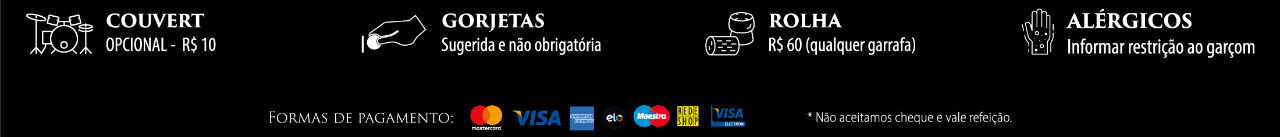
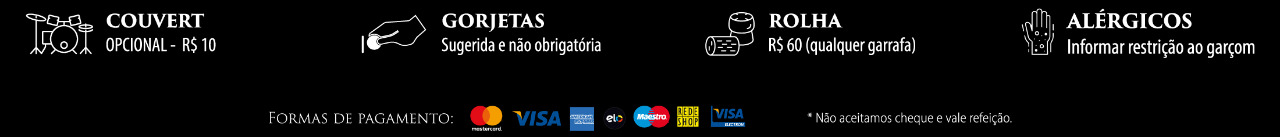
fix: correção na largura das imagens

diff --git a/src/App.jsx b/src/App.jsx
@@ -11,12 +11,13 @@ import Legenda from './components/Legenda'
 import * as actionsBebida from './actions/actionsBebida'
 import * as actionsComida from './actions/actionsComida'
 
-const StyleContainer = styled.div`
+const StyleContainer = styled(StickyContainer)`
   display: flex;
   flex-direction: column;
   background-color: #000;
   height: 100%;
   padding-bottom: 5rem;
+  width: 100%;
 `
 
 function App() {
@@ -42,14 +43,12 @@ function App() {
   }, [dispatch])
 
   return (
-    <StickyContainer>
       <StyleContainer>
         <Banner />
         <Menu />
         <Legenda />
         <Cardapio />
       </StyleContainer>
-    </StickyContainer>
   )
 }
 

diff --git a/src/components/Banner/styles.js b/src/components/Banner/styles.js
@@ -8,6 +8,7 @@ export const Container = styled.div`
   margin-bottom: 2rem;
   justify-content: center;
   align-items: center;
+  width: 100%;
 
   .slick-prev,
   .slick-next {
@@ -19,11 +20,13 @@ export const Container = styled.div`
 export const BannerTop = styled.div`
   display: flex;
   max-width: 1224px;
+  width: 100%;
 `
 
 export const BannerBottom = styled.div`
   display: flex;
   max-width: 1224px;
+  width: 100%;
 `
 
 export const Content = styled.div`
@@ -141,5 +144,4 @@ export const ContentSlider = styled.div`
 export const BannerImg = styled.img`
   width: 100%;
   height: auto;
-  object-fit: cover;
 `
